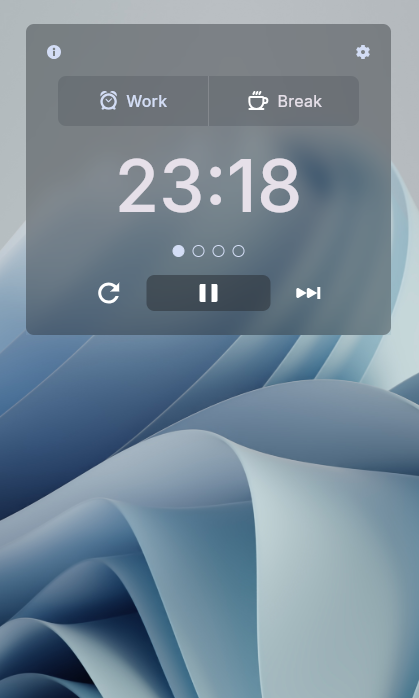
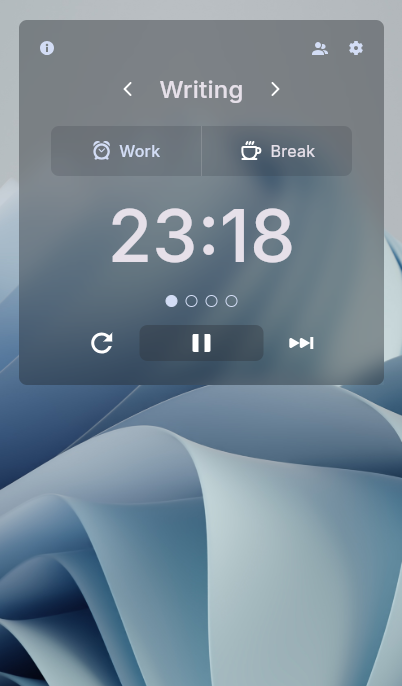
feat: add profiles feature & update screenshots

diff --git a/pomodoro_applet_redesign/lib/pages/profiles_page.dart b/pomodoro_applet_redesign/lib/pages/profiles_page.dart
@@ -1,0 +1,100 @@
+import 'package:flutter/material.dart';
+
+import '../comp/comp_back_row.dart';
+import '../comp/comp_draw_svg.dart';
+import '../comp/comp_page_shell.dart';
+import '../comp/comp_parent_tile.dart';
+import '../comp/comp_spinner.dart';
+import '../comp/comp_tile.dart';
+import '../comp/comp_tile_container.dart';
+
+class ProfilesPage extends StatelessWidget {
+  const ProfilesPage({super.key});
+
+  @override
+  Widget build(BuildContext context) {
+    return CompPageShell(
+      children: [
+        CompBackRow(),
+        SizedBox(height: 20),
+
+        Row(
+          children: [
+            Text(
+              "Profiles",
+              style: TextStyle(fontSize: 22.0, fontWeight: FontWeight.w500),
+            ),
+            Spacer(),
+            CompDrawSvg(iconName: "add", size: 24),
+            SizedBox(width: 4),
+          ],
+        ),
+        SizedBox(height: 16.0),
+
+        CompTileContainer(
+          children: [
+            CompTile(
+              leading: Text("Coding"),
+              trailing: CompDrawSvg(iconName: "up"),
+            ),
+            Padding(
+              padding: const EdgeInsets.symmetric(horizontal: 8.0),
+              child: CompTileContainer(
+                hideColor: true,
+                children: [
+                  CompTile(
+                    leading: Text("Coding"),
+                    trailing: Row(
+                      spacing: 20,
+                      children: [
+                        CompDrawSvg(iconName: "edit"),
+                        CompDrawSvg(
+                          iconName: "delete",
+                          color: Color(0xFFFFA090),
+                        ),
+                      ],
+                    ),
+                  ),
+                  CompTile(
+                    leading: Text("Work time (min)"),
+                    trailing: CompSpinner(value: 25),
+                  ),
+                  CompTile(
+                    leading: Text("Short break time (min)"),
+                    trailing: CompSpinner(value: 5),
+                  ),
+                  CompTile(
+                    leading: Text("Long break time (min)"),
+                    trailing: CompSpinner(value: 15),
+                  ),
+                  CompTile(
+                    leading: Text("Long break interval"),
+                    trailing: CompSpinner(value: 4),
+                  ),
+                ],
+              ),
+            ),
+          ],
+        ),
+        SizedBox(height: 16),
+
+        CompParentTile(
+          child: CompTile(
+            leading: Text("Study"),
+            trailing: CompDrawSvg(iconName: "down"),
+          ),
+        ),
+        SizedBox(height: 16),
+
+        CompParentTile(
+          child: CompTile(
+            leading: Text("Writing"),
+            trailing: CompDrawSvg(iconName: "down"),
+          ),
+        ),
+
+        SizedBox(height: 4),
+      ],
+    );
+  }
+}

diff --git a/pomodoro_applet_redesign/lib/pages/settings_page.dart b/pomodoro_applet_redesign/lib/pages/settings_page.dart
@@ -2,9 +2,6 @@ import 'package:flutter/material.dart';
 
 import '../comp/comp_back_row.dart';
 import '../comp/comp_page_shell.dart';
-import '../comp/comp_parent_tile.dart';
-import '../comp/comp_spinner.dart';
-import '../comp/comp_sub_header.dart';
 import '../comp/comp_switch.dart';
 import '../comp/comp_tile.dart';
 import '../comp/comp_tile_container.dart';
@@ -25,31 +22,11 @@ class SettingsPage extends StatelessWidget {
         ),
         SizedBox(height: 16.0),
 
-        CompSubHeader(title: "Duration (in minutes)"),
         CompTileContainer(
           children: [
             CompTile(
-              leading: Text("Work time"),
-              trailing: CompSpinner(value: 25),
-            ),
-            CompTile(
-              leading: Text("Short break time"),
-              trailing: CompSpinner(value: 5),
-            ),
-            CompTile(
-              leading: Text("Long break time"),
-              trailing: CompSpinner(value: 15),
-            ),
-          ],
-        ),
-        SizedBox(height: 16),
-
-        CompSubHeader(title: "Behavior"),
-        CompTileContainer(
-          children: [
-            CompTile(
-              leading: Text("Long break interval"),
-              trailing: CompSpinner(value: 4),
+              leading: Text("Enable Do Not Disturb"),
+              trailing: CompSwitch(value: true),
             ),
             CompTile(
               leading: Text("Auto start work timer"),
@@ -61,12 +38,6 @@ class SettingsPage extends StatelessWidget {
             ),
           ],
         ),
-        SizedBox(height: 12),
-        CompParentTile(
-          padding: EdgeInsetsGeometry.symmetric(horizontal: 12, vertical: 8),
-          child: Text("Reset to default"),
-        ),
-
         SizedBox(height: 4),
       ],
     );

diff --git a/pomodoro_applet_redesign/lib/pages/main_page.dart b/pomodoro_applet_redesign/lib/pages/main_page.dart
@@ -14,12 +14,33 @@ class MainPage extends StatelessWidget {
   @override
   Widget build(BuildContext context) {
     final isActive = false;
-    final timer = isActive ? "23:18" : "25:00";
+    final timer = isActive ? "23:18" : "40:00";
     final icon = isActive ? "pause" : "play";
+    final profiles = ["Coding", "Study", "Writing"];
+    final profileIndex = 2;
 
     return CompPageShell(
       children: [
         TopRow(),
+        SizedBox(height: 16),
+
+        Row(
+          mainAxisAlignment: MainAxisAlignment.center,
+          spacing: 16,
+          children: [
+            CompDrawSvg(iconName: "left"),
+            Container(
+              alignment: Alignment.center,
+              width: 100,
+              child: Text(
+                profiles[profileIndex],
+                style: TextStyle(fontSize: 24, fontWeight: FontWeight.w500),
+              ),
+            ),
+            CompDrawSvg(iconName: "right"),
+          ],
+        ),
+        SizedBox(height: 4),
 
         Padding(
           padding: EdgeInsets.fromLTRB(16, 16, 16, 8),

diff --git a/pomodoro_applet_redesign/lib/widgets/top_row.dart b/pomodoro_applet_redesign/lib/widgets/top_row.dart
@@ -4,6 +4,7 @@ import '../comp/comp_draw_svg.dart';
 import '../constants.dart';
 import '../helper/nav_helper.dart';
 import '../pages/about_page.dart';
+import '../pages/profiles_page.dart';
 import '../pages/settings_page.dart';
 
 class TopRow extends StatelessWidget {
@@ -14,11 +15,17 @@ class TopRow extends StatelessWidget {
     return Padding(
       padding: const EdgeInsets.fromLTRB(4, 4, 4, 0),
       child: Row(
-        mainAxisAlignment: MainAxisAlignment.spaceBetween,
+        spacing: 20,
         children: [
           CompDrawSvg(
             onTap: () => NavHelper.openPage(context, AboutPage()),
             iconName: "info",
+            color: kAccentColor,
+          ),
+          Spacer(),
+          CompDrawSvg(
+            onTap: () => NavHelper.openPage(context, ProfilesPage()),
+            iconName: "profiles",
             color: kAccentColor,
           ),
           CompDrawSvg(

diff --git a/pomodoro_applet_redesign/lib/comp/comp_tile_container.dart b/pomodoro_applet_redesign/lib/comp/comp_tile_container.dart
@@ -16,6 +16,7 @@ class CompTileContainer extends StatelessWidget {
   @override
   Widget build(BuildContext context) {
     return CompParentTile(
+      alpha: hideColor ? 0 : 100,
       child: Column(
         children: [
           ListView.separated(

diff --git a/pomodoro_applet_redesign/README.md b/pomodoro_applet_redesign/README.md
@@ -11,4 +11,5 @@ The goal of this redesign is to improve information hierarchy, visual consistenc
   <img src="screenshots/1.png" alt="Applet redesign" width="280">
   <img src="screenshots/2.png" alt="Applet redesign" width="280">
   <img src="screenshots/3.png" alt="Applet redesign" width="280">
+  <img src="screenshots/4.png" alt="Applet redesign" width="280">
 </p>
